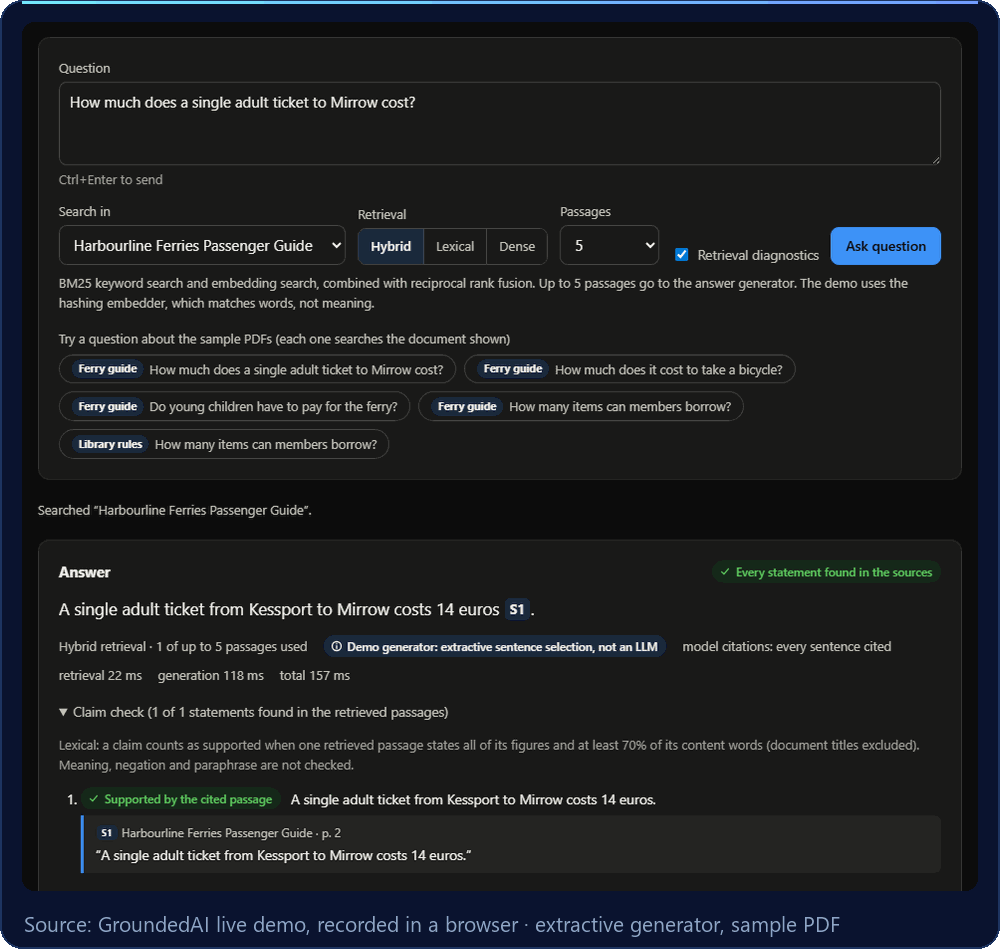
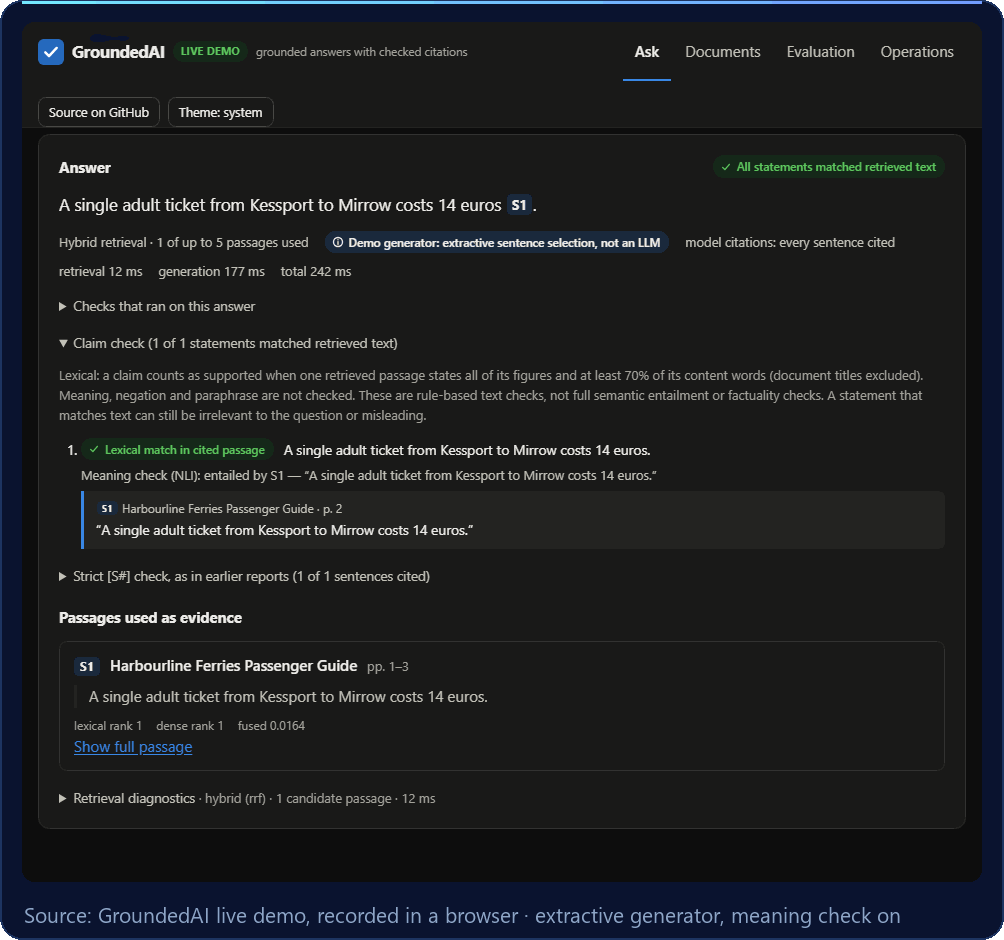
GroundedAI card: new live-demo recording and updated summary
- tools/record_groundedai_demo.py records the live demo: meaning check on, sample PDF,
  answer with quote and page, then the table of checks that ran (added-detail rule shown as
  off by default); assets/v2/source/ holds the raw recording
- make_profile_v2_assets.py frames it at native width; --only groundedai rebuilds just the
  two GroundedAI cards (other assets untouched)
- README: GroundedAI summary from current GroundedAI/main (hybrid retrieval, browser NLI,
  real-PDF evaluation, LoRA experiment not adopted); thesis wording matches the CVs
  (in collaboration with CNR-IEIIT); TrustRAG test count 573

diff --git a/tools/record_groundedai_demo.py b/tools/record_groundedai_demo.py
@@ -1,0 +1,144 @@
+"""
+Record the GroundedAI card animation from the live demo (real interface, real answer).
+
+    python pouyapd/tools/record_groundedai_demo.py [--url https://pouyapd.github.io/GroundedAI/]
+
+Drives https://pouyapd.github.io/GroundedAI/ in Chromium (dark theme, 960 px wide) the way a
+visitor would:
+
+1. the start panel: the extractive generator (the default; the optional in-browser model is the
+   base Qwen2.5-1.5B-Instruct) and the optional meaning check;
+2. the meaning check (an NLI model) is switched on and downloads into the tab;
+3. a sample PDF, the Harbourline Ferries Passenger Guide, is chosen and a question is typed;
+4. the answer appears with its source label, the quoted sentence and its page, the lexical claim
+   check and the meaning check;
+5. the "Checks that ran on this answer" table is opened.
+
+Every frame is a screenshot of the page; nothing is drawn in afterwards. The recording stops with
+an error, and writes nothing, unless the answer quotes page 2 and the checks table lists the
+meaning check and the added-detail rule.
+
+Writes assets/v2/source/groundedai-demo.gif (the first frame repeats the answer, so the image
+tells the story before it plays) and assets/v2/source/groundedai-demo.png (the answer frame).
+tools/make_profile_v2_assets.py frames them as cards/groundedai.gif and cards/groundedai.png.
+Needs ``playwright`` with Chromium and Pillow.
+"""
+
+from __future__ import annotations
+
+import argparse
+import io
+from pathlib import Path
+
+from PIL import Image
+
+ROOT = Path(__file__).resolve().parents[1]
+OUT = ROOT / "assets" / "v2" / "source"
+URL = "https://pouyapd.github.io/GroundedAI/"
+DOCUMENT = "Harbourline Ferries Passenger Guide"
+QUESTION_PARTS = ("How much does ", "a single adult ", "ticket to Mirrow ", "cost?")
+WIDTH, HEIGHT = 960, 860
+HEADER = 112  # the site's sticky header covers the top of the viewport
+
+
+def record(url: str) -> tuple[list[Image.Image], list[int]]:
+    from playwright.sync_api import sync_playwright
+
+    shots: list[tuple[bytes, int]] = []
+    with sync_playwright() as playwright:
+        browser = playwright.chromium.launch()
+        page = browser.new_page(viewport={"width": WIDTH, "height": HEIGHT}, color_scheme="dark")
+        page.goto(url)
+        page.wait_for_selector("button.chip-example", timeout=240_000)
+
+        def show(selector: str, margin: int = HEADER) -> None:
+            """Scroll so that the first element matching ``selector`` starts near the top."""
+            page.locator(selector).first.evaluate(
+                "(el, m) => window.scrollTo(0, el.getBoundingClientRect().top + window.scrollY - m)",
+                margin,
+            )
+            page.wait_for_timeout(150)
+
+        def shot(ms: int) -> None:
+            shots.append((page.screenshot(), ms))
+
+        # 1-2: the start panel, then the meaning check switched on while it downloads
+        show("#demo-title", margin=HEADER + 50)
+        shot(1700)
+        page.locator("label.option-card", has_text="Meaning check").locator("input").check()
+        page.wait_for_selector(".nli-progress", timeout=30_000)
+        page.wait_for_timeout(700)
+        shot(900)
+        page.wait_for_selector(".nli-progress", state="detached", timeout=600_000)
+        if not page.locator("label.option-card", has_text="Meaning check").locator("input").is_checked():
+            raise SystemExit("the meaning check did not load; nothing was written")
+        shot(900)
+
+        # 3: a sample PDF and the question
+        show("form.card")
+        page.select_option("#scope", label=DOCUMENT)
+        shot(900)
+        typed = ""
+        for part in QUESTION_PARTS:
+            typed += part
+            page.fill("#question", typed)
+            shot(230)
+        page.click("button[type=submit]:has-text('Ask question')")
+
+        # 4: the answer with quote, page, claim check and meaning check
+        page.wait_for_selector(".evidence", timeout=120_000)
+        page.wait_for_selector("text=Meaning check (NLI)", timeout=300_000)
+        page.wait_for_timeout(600)
+        if "p. 2" not in page.locator(".evidence").first.inner_text():
+            raise SystemExit("the quote does not name page 2; nothing was written")
+        show("section[aria-labelledby=answer-heading]")
+        shot(4200)
+
+        # 5: the table of checks that ran
+        summary = page.locator("summary", has_text="Checks that ran on this answer").first
+        summary.click()
+        page.wait_for_timeout(400)
+        table = summary.locator("xpath=..").inner_text()
+        for needed in ("Meaning", "Added detail"):
+            if needed.lower() not in table.lower():
+                raise SystemExit(f"the checks table does not list {needed!r}; nothing was written")
+        show("section[aria-labelledby=answer-heading]")
+        shot(5200)
+        browser.close()
+    frames = [Image.open(io.BytesIO(png)).convert("RGB") for png, _ in shots]
+    return frames, [ms for _, ms in shots]
+
+
+def save(frames: list[Image.Image], durations: list[int]) -> None:
+    OUT.mkdir(parents=True, exist_ok=True)
+    poster = frames[-2]  # the answer with its quote, page, claim check and meaning check
+    poster.save(OUT / "groundedai-demo.png", optimize=True)
+    sequence = [poster, *frames]  # the first frame shows the result
+    timing = [2400, *durations]
+    palette = frames[-1].quantize(colors=128, method=Image.Quantize.MEDIANCUT, dither=Image.Dither.NONE)
+    indexed = [f.quantize(palette=palette, dither=Image.Dither.NONE) for f in sequence]
+    indexed[0].save(
+        OUT / "groundedai-demo.gif",
+        save_all=True,
+        append_images=indexed[1:],
+        duration=timing,
+        loop=0,
+        optimize=True,
+        disposal=1,
+    )
+
+
+def main() -> int:
+    parser = argparse.ArgumentParser(description=__doc__.strip().split("\n\n")[0])
+    parser.add_argument("--url", default=URL)
+    args = parser.parse_args()
+    frames, durations = record(args.url)
+    save(frames, durations)
+    for name in ("groundedai-demo.gif", "groundedai-demo.png"):
+        path = OUT / name
+        print(f"{path.relative_to(ROOT).as_posix()}: {Image.open(path).size}, {path.stat().st_size / 1024:.0f} KB")
+    return 0
+
+
+if __name__ == "__main__":
+    raise SystemExit(main())

diff --git a/tools/make_profile_v2_assets.py b/tools/make_profile_v2_assets.py
@@ -12,10 +12,11 @@ Assets of the animated profile design (assets/v2/):
                           repositories, framed in the profile's style, each with its source.
     cards/safenav-rl.gif  replay of stored SafeNav-RL benchmark trajectories (first expert test
                           scenario, four controllers), drawn from results/benchmark/trajectories.npz.
-    cards/groundedai.gif  the GroundedAI live demo recorded in a browser (GroundedAI's
-                          scripts/record_demo_preview.py: real screenshots of a real answer), framed
-                          like the other cards; cards/groundedai.png is its final frame, for reduced
-                          motion.
+    cards/groundedai.gif  the GroundedAI live demo recorded in a browser (tools/record_groundedai_demo.py
+                          writes assets/v2/source/groundedai-demo.*: real screenshots of a real
+                          answer with its quote, page, meaning check and checks table), framed like
+                          the other cards; cards/groundedai.png is the answer frame, for reduced
+                          motion. `--only groundedai` rebuilds just these two cards.
 
 Only files in pouyapd/assets/v2/ are written; the project repositories are read, never changed.
 Run from the folder that contains the repositories:
@@ -332,8 +333,20 @@ def safenav_replay(out: Path, step: int = 5) -> None:
     pal[0].save(out, save_all=True, append_images=pal[1:], duration=durations, loop=0, optimize=True, disposal=1)
 
 
+def groundedai_cards() -> None:
+    demo_source = "Source: GroundedAI live demo, recorded in a browser · extractive generator, meaning check on"
+    # width 1004: the 960 px recording sits in the frame unscaled (no resampling noise, smaller GIF)
+    framed_gif(OUT / "source" / "groundedai-demo.gif", OUT / "cards" / "groundedai.gif", demo_source, width=1004)
+    framed(OUT / "source" / "groundedai-demo.png", OUT / "cards" / "groundedai.png", demo_source, width=1004)
+
+
 def main() -> int:
     (OUT / "cards").mkdir(parents=True, exist_ok=True)
+    if sys.argv[1:] == ["--only", "groundedai"]:
+        groundedai_cards()
+        for p in sorted((OUT / "cards").glob("groundedai.*")):
+            print(f"{p.relative_to(OUT.parent.parent).as_posix():45s} {p.stat().st_size / 1024:7.1f} KB")
+        return 0
     (OUT / "banner.svg").write_text(banner_svg(), encoding="utf-8")
     (OUT / "banner-static.svg").write_text(banner_svg(animated=False), encoding="utf-8")
     framed(ROOT / "SafeTraj-Experiments" / "docs" / "figures" / "derived" / "orientation_sensitivity.png",
@@ -348,11 +361,7 @@ def main() -> int:
     framed(ROOT / "pouyapd" / "assets" / "projects" / "trustrag.png", OUT / "cards" / "trustrag.png",
            "Source: TrustRAG · docs/figures/pipeline_evaluation.png")
     safenav_replay(OUT / "cards" / "safenav-rl.gif")
-    demo_source = "Source: GroundedAI live demo, recorded in a browser · extractive generator, sample PDF"
-    framed_gif(ROOT / "GroundedAI" / "docs" / "images" / "demo-preview.gif", OUT / "cards" / "groundedai.gif",
-               demo_source)
-    framed(ROOT / "GroundedAI" / "docs" / "images" / "demo-preview.png", OUT / "cards" / "groundedai.png",
-           demo_source)
+    groundedai_cards()
     for p in sorted(OUT.rglob("*.*")):
         print(f"{p.relative_to(OUT.parent.parent).as_posix():45s} {p.stat().st_size / 1024:7.1f} KB")
     return 0

diff --git a/README.md b/README.md
@@ -11,7 +11,7 @@
 
 I work on **trustworthy AI**: evaluating machine-learning systems, finding out *where* and *why* they fail, and explaining those failures with interpretable models. I build this as tested, reproducible research software, and I report what the evidence does not show as clearly as what it does.
 
-**MSc in Computer Engineering, University of Genoa (2026).** I was a Research Assistant (MSc thesis research) at **CNR-IEIIT** in the EU Horizon Europe project [REXASI-PRO](https://rexasi-pro.spindoxlabs.com/), working on the reliability of neural trajectory predictors for smart-wheelchair navigation.
+**MSc in Computer Engineering, University of Genoa (2026).** My MSc thesis research was carried out in collaboration with **CNR-IEIIT** within the EU Horizon Europe project [REXASI-PRO](https://rexasi-pro.spindoxlabs.com/), on the reliability of neural trajectory predictors for smart-wheelchair navigation.
 
 **Research interests:** failure analysis of learned components in safety-critical systems · ML evaluation (black-box evaluation, risk maps, held-out checks, confidence intervals, honest baselines) · interpretable models as failure rules · safety filters for learned navigation · reproducible research software · evidence-level evaluation of retrieval-augmented generation.
 
@@ -72,23 +72,25 @@ A measurement study of what happens *inside* the right document: retrieving the 
 - An author-conducted annotation of 200 QASPER units: gating failure attribution on span coverage agrees with the labels more often than gating on document coverage (accuracy 0.700 vs 0.600). One annotator: agreement with a guided expert reading, not independent validation.
 - A defect found in my own BM25 baseline led to withdrawing an earlier result; the correction is kept on record in the repository.
 
-Offset-carrying pipeline, failure taxonomy, Wilson intervals, exact McNemar with Holm correction, cluster bootstrap; 504 tests. Software and annotation data on Zenodo: [10.5281/zenodo.22879358](https://doi.org/10.5281/zenodo.22879358), [10.5281/zenodo.22879569](https://doi.org/10.5281/zenodo.22879569).
+Offset-carrying pipeline, failure taxonomy, Wilson intervals, exact McNemar with Holm correction, cluster bootstrap; 573 tests. Software and annotation data on Zenodo: [10.5281/zenodo.22879358](https://doi.org/10.5281/zenodo.22879358), [10.5281/zenodo.22879569](https://doi.org/10.5281/zenodo.22879569).
 
 ### [GroundedAI](https://github.com/pouyapd/GroundedAI): evidence-grounded document question answering
 
 <a href="https://github.com/pouyapd/GroundedAI"><picture>
   <source media="(prefers-reduced-motion: reduce)" srcset="assets/v2/cards/groundedai.png">
-  <img src="assets/v2/cards/groundedai.gif" alt="Recording of the GroundedAI live demo: a sample PDF is selected, a question is typed and sent, and the answer appears with its claim check: supported by the cited passage, with the quoted sentence and its page" width="100%">
+  <img src="assets/v2/cards/groundedai.gif" alt="Recording of the GroundedAI live demo: the optional NLI meaning check is switched on, the ferry-guide sample PDF is selected and a question is asked; the answer cites S1 and shows the quoted sentence with its page (p. 2), the lexical claim check and the meaning check; then the table of checks that ran is opened, listing retrieval, citation labels, lexical match, added details (not checked: optional rule, off by default), question relevance, meaning (entailment) and answer correctness (not assessed)" width="100%">
 </picture></a>
 
 **[▶ Try the live demo](https://pouyapd.github.io/GroundedAI/)** (runs entirely in your browser; no install) · [Repository](https://github.com/pouyapd/GroundedAI) · [Release v0.1.0](https://github.com/pouyapd/GroundedAI/releases/tag/v0.1.0)
 
-A retrieval-augmented question-answering application that checks its own answers: every statement is compared with the passages the model received and comes back with a status, the exact quoted sentence and its page. Conflicting sources are shown side by side, and when the documents do not say, the answer is "not enough evidence".
+Evidence-grounded question answering over PDFs: every statement of an answer comes back with the exact quoted sentence, its page and source label, and a list of the checks that ran (citation labels, lexical match, question relevance, disagreement between sources and, optionally, meaning). When the documents do not say, the answer is "not enough evidence".
 
-- The live demo runs the unchanged FastAPI backend in the browser (Python compiled to WebAssembly): PDF extraction, hybrid retrieval, the prompt and the claim check, with an optional Qwen2.5-1.5B model on the visitor's GPU (WebGPU).
-- With qwen2.5:1.5b through Ollama on a 56-question synthetic set, 29 of 41 answerable questions were answered correctly with every statement verified, and 8 of 10 questions that should be refused were refused. The checks are lexical and rule-based, and the labels were written by the author or by models.
+- **Retrieval and checks:** hybrid retrieval (BM25 + vectors, reciprocal rank fusion) with page-aware chunks; an optional NLI meaning check (DeBERTa-v3-xsmall, int8 ONNX) runs in the browser next to the lexical check. On 108 hand-written test claims it reached macro-F1 .716, against .388 for the lexical check.
+- **Runs in the browser:** the live demo runs the real Python backend as WebAssembly (Pyodide), with an optional Qwen2.5-1.5B-Instruct model on the visitor's GPU (WebLLM).
+- **Evaluated on real PDFs:** ten NIST publications split by document, 53 hand-written test questions run once per configuration, paired bootstrap intervals.
+- **LoRA fine-tuning experiment:** Qwen2.5-1.5B-Instruct fine-tuned with LoRA on a free Colab T4 and compared with the base model under identical retrieval and decoding. The adapter followed the citation format reliably but answered fewer questions correctly, so it was not adopted and the base model stays in production ([results](https://github.com/pouyapd/GroundedAI/blob/main/docs/FINETUNING.md)).
 
-FastAPI · LangChain · SQLite FTS5 or PostgreSQL + pgvector · React · Pyodide · WebLLM; a browser check of the live demo runs in CI.
+FastAPI · LangChain · SQLite FTS5 or PostgreSQL + pgvector · React · Pyodide · WebLLM · ONNX Runtime Web; a browser check of the live demo runs in CI.
 
 ## Tools I use in these projects
 
@@ -104,4 +106,4 @@ FastAPI · LangChain · SQLite FTS5 or PostgreSQL + pgvector · React · Pyodide
 
 [LinkedIn](https://www.linkedin.com/in/pouya-pourmand-021654325) · pouyapd68@gmail.com
 
-<sub>The banner's project map is a diagram of the repositories above; its motion is CSS-only, and a still version is shown when your system asks for reduced motion. The project images are figures and a screenshot from those repositories, the SafeNav-RL animation replays its stored benchmark trajectories, and the GroundedAI animation is a recording of its live demo. All are generated by <a href="tools/make_profile_v2_assets.py"><code>tools/make_profile_v2_assets.py</code></a>.</sub>
+<sub>The banner's project map is a diagram of the repositories above; its motion is CSS-only, and a still version is shown when your system asks for reduced motion. The project images are figures and a screenshot from those repositories, the SafeNav-RL animation replays its stored benchmark trajectories, and the GroundedAI animation is a recording of its live demo made by <a href="tools/record_groundedai_demo.py"><code>tools/record_groundedai_demo.py</code></a>. All are framed by <a href="tools/make_profile_v2_assets.py"><code>tools/make_profile_v2_assets.py</code></a>.</sub>
